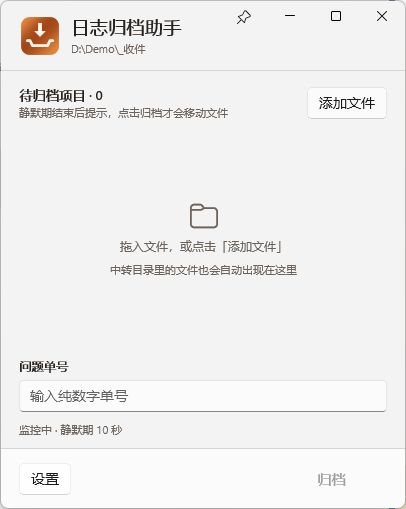
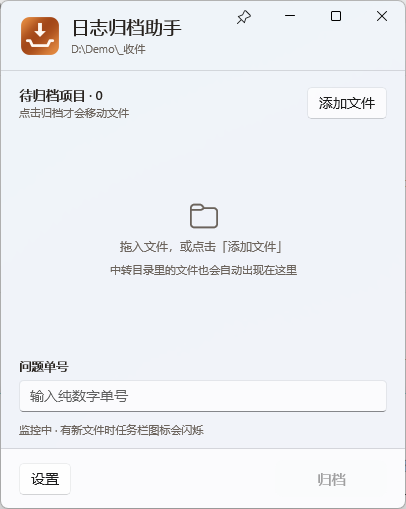
docs: describe the 0.04 pin fix and taskbar-only reminders
Update the changelog, spec, readme and release checklist to match: no quiet period, no pause action, five tray items. Retake the three screenshots on 0.04 so the removed field no longer appears.

Changed region(s): [[0.0296, 0.2063, 0.5616, 0.2358], [0.1478, 0.8251, 0.5025, 0.8546], [0.9754, 0.9725, 1.0, 1.0]]

diff --git a/README.md b/README.md
@@ -1,12 +1,12 @@
 # 日志归档助手（log-organizer）
 
-常驻 Windows 托盘的轻量工具：把下载、截图、日志等文件放进**中转目录**，或直接拖入归档窗口；文件稳定后工具会提示待归档项目。输入**纯 ASCII 数字问题单号**并明确点击“归档”后，才会移动到目标目录下的单号文件夹中。
+常驻 Windows 托盘的轻量工具：把下载、截图、日志等文件放进**中转目录**，或直接拖入归档窗口；文件一落进中转目录就出现在待归档列表，任务栏图标会闪一下提醒你。输入**纯 ASCII 数字问题单号**并明确点击“归档”后，才会移动到目标目录下的单号文件夹中。
 
 **保存到中转目录 → 输入单号 → 确认归档**
 
 | 项目 | 值 |
 | --- | --- |
-| 当前版本 | 0.03 |
+| 当前版本 | 0.04 |
 | 许可证 | GNU GPL v3（`GPL-3.0-only`） |
 | 系统要求 | Windows 10 版本 1809（17763）或更高、Windows 11；x64 或 arm64 |
 | 运行时依赖 | 不需要安装 .NET；需要 Microsoft Visual C++ 2015-2022 运行库 |
@@ -22,7 +22,7 @@
 2. 解压到普通可写目录，例如 `D:\Apps\LogOrganizer`，双击 `LogOrganizer.exe`。
 3. 首次启动会创建中转目录 `D:\Downloads\_收件`（可在设置中修改）。
 4. 在设置里选择**目标目录**——归档文件夹会创建在它下面。
-5. 把文件存到中转目录，等待提示，输入单号，点击“归档”。
+5. 把文件存到中转目录，看到任务栏图标闪烁后，输入单号，点击“归档”。
 
 > 个别受企业策略管控的目录不允许程序写 `%APPDATA%`，此时配置保存会失败。把 exe 放到普通目录（如 `D:\Apps\LogOrganizer`）即可，不需要管理员权限。
 
@@ -30,12 +30,12 @@
 
 ## 二、功能
 
-- **中转目录监控**：文件停止变化并经过静默期（默认 10 秒）后，把顶层文件 / 文件夹作为一批待归档项目；`.crdownload`、`.part`、`.tmp` 等未完成下载会被忽略。
+- **中转目录监控**：顶层文件 / 文件夹一出现就进入待归档列表，不等待、不弹窗、不抢焦点；任务栏按钮闪烁一次作为提醒（最小化时不会自动还原）。`.crdownload`、`.part`、`.tmp` 等未完成下载不会进入列表。
 - **手动添加与拖放**：归档窗口可添加文件、文件夹，或直接拖入；添加和移除只改列表，不动磁盘上的源项目。
 - **单号归档**：单号只接受非空纯数字；目标单号文件夹已存在时合并。
 - **冲突处理**：遇到同名文件必须逐项选择覆盖、重命名或跳过，默认按钮是“跳过”，不会静默覆盖。
 - **置顶模式**：归档窗口常驻最前，新项目直接进入列表；置顶不是自动归档，移动仍需要明确点击“归档”。
-- **托盘菜单**：右键托盘图标弹出菜单——显示 / 隐藏窗口、设置、打开中转目录、打开目标目录（未设置目标目录时置灰）、暂停 / 继续监控、退出。
+- **托盘菜单**：右键托盘图标弹出菜单——显示 / 隐藏窗口、设置、打开中转目录、打开目标目录（未设置目标目录时置灰）、退出。
 - **开机自启**（默认关闭）与**全局快捷键唤醒**（默认 `Ctrl+Shift+L`，默认关闭）：设置页可捕获改键，按下时把归档窗口提到最前并聚焦单号框；组合被占用时会提示。
 - **单实例**：重复启动只会提示“已经在运行”，避免两个实例同时移动同一批文件。
 
@@ -53,7 +53,7 @@
 
 ## 四、使用流程
 
-1. 文件进入中转目录后，工具在静默期结束后把项目加入“待归档项目”列表，并提示（置顶模式下不弹提示）。
+1. 文件进入中转目录后立刻出现在“待归档项目”列表，任务栏图标闪一下；窗口不会自己升起。
 2. 输入单号，点击“归档”。
 3. 目标目录下生成同名文件夹；已存在则合并。出现同名冲突时逐项确认。
 4. 全部成功后源项目才从中转目录消失；任何一项失败都会保留源项目并显示原因。
@@ -90,7 +90,7 @@
 
 - 配置：`%APPDATA%\log-organizer\config.json`。旧目录 `%APPDATA%\ticket-file-organizer` 会被自动迁移一次，旧的开机自启项也会清理。
 - 崩溃日志：`%LOCALAPPDATA%\LogOrganizer\crash.log`。
-- 版本号规则：每处发布 +0.01（`0.01 → 0.02 → 0.03`），不做跨版本跳跃；重大缺陷或重大功能才允许改变 `0.0x` 之前的数字，并在 `CHANGELOG.md` 说明理由。
+- 版本号规则：每处发布 +0.01（`0.01 → 0.02 → 0.03 → 0.04`），不做跨版本跳跃；重大缺陷或重大功能才允许改变 `0.0x` 之前的数字，并在 `CHANGELOG.md` 说明理由。
 - 版本号只有一个来源：根目录 `Directory.Build.props` 的 `<Version>`。
 
 ## 八、构建
@@ -101,7 +101,7 @@
 # 构建（x64）
 dotnet build LogOrganizer.sln -c Release -p:Platform=x64
 
-# 运行核心单元测试（73 个用例）
+# 运行核心单元测试（63 个用例）
 dotnet test LogOrganizer.sln -c Release -p:Platform=x64
 # 或者直接跑测试可执行文件（等价，且不依赖测试宿主）
 tests\LogOrganizer.Core.Tests\bin\Release\net10.0\LogOrganizer.Core.Tests.exe
@@ -125,8 +125,7 @@ tests\LogOrganizer.Core.Tests\bin\Release\net10.0\LogOrganizer.Core.Tests.exe
 ```
 src/LogOrganizer.Core/            不依赖 UI 的核心逻辑
   TicketNumber.cs                 单号校验（仅 ASCII 数字）
-  QuietPeriod.cs                  静默期状态
-  InboxWatcher.cs                 中转目录监控与批次
+  InboxWatcher.cs                 中转目录监控：顶层项目即时进入待归档列表
   ArchiveService.cs               安全移动 / 合并 / 冲突处理
   ArchiveConflict.cs              冲突决策与结果模型
   PathSafety.cs                   路径与重解析点防护
@@ -163,7 +162,7 @@ docs/screenshots/                 README 使用的窗口截图
 - **设置窗口高度会按屏幕可用区域截断**：内容放不下时出现滚动条，页脚按钮始终可见。
 - 目标目录只能有一个；切换需在设置中修改。
 - 中转目录必须由你在保存对话框里手动选择一次（Windows 不允许第三方程序添加自定义保存位置）。
-- 浏览器未完成的下载（`.crdownload`、`.part`、`.tmp`）会被忽略，改名完成后才进入批次。
+- 浏览器未完成的下载（`.crdownload`、`.part`、`.tmp`）不会进入列表，改名完成后才出现。
 - 隐藏窗口不退出应用，需从托盘菜单“退出”。
 - 程序运行中无法覆盖 exe（文件被占用），重新发布前先退出。
 - 从受策略限制的目录运行时可能写不进 `%APPDATA%`（例如某些企业管控的源码目录）；把 exe 放到普通目录（如 `D:\Apps\LogOrganizer\`）即可。

diff --git a/SPEC.md b/SPEC.md
@@ -7,14 +7,14 @@
 ## 已确认需求
 
 - 项目目录：`log-organizer`；技术栈：C#、.NET 10（LTS）、WinUI 3（Windows App SDK 1.8）。显示名称：**日志归档助手**；可执行文件：`LogOrganizer.exe`。
-- 托盘工具保持运行，菜单提供：显示 / 隐藏归档窗口、设置、打开中转目录、打开目标目录、暂停 / 继续监控、退出。
+- 托盘工具保持运行，菜单提供：显示 / 隐藏归档窗口、设置、打开中转目录、打开目标目录、退出。
 - 默认中转目录为 `D:\Downloads\_收件`；设置页允许修改中转根路径与子文件夹名称，首次使用时创建目录。
 - 默认目标目录未设置；用户选择一个已存在的目录后长期生效。目标目录无效或不存在时不可归档并明确提示。
-- 文件系统变化重新开始静默期（默认 10 秒，可设 1–600 秒）。普通模式下静默期结束仅提示有项目待处理；用户输入单号并明确点击归档后才移动源项目。文件和文件夹均可作为顶层待归档项目；未完成下载的后缀（`.crdownload`、`.part`、`.tmp` 等）忽略。
+- 中转目录出现新的顶层项目时立即加入待归档列表，不设静默期、不弹对话框、不抢前台、不自动升起窗口；只在任务栏按钮闪一下作为提醒（2 秒内多次变化只闪一次，最小化时不会自动还原）。用户输入单号并明确点击归档后才移动源项目。文件和文件夹均可作为顶层待归档项目；未完成下载的后缀（`.crdownload`、`.part`、`.tmp` 等）忽略。
 - 归档窗口允许通过文件选择器和拖放添加文件 / 文件夹，并允许逐项移出列表；仅添加或移除列表项不改动磁盘上的源项目。
 - 单号必须为非空纯 ASCII 数字（`0`–`9`）。单号目录已存在时合并；目标发生同名冲突时必须由用户选择覆盖、重命名或跳过，默认按钮为跳过。
-- 置顶模式保持归档窗口常驻可见；中转目录新增项目直接加入待归档列表，不显示静默期提示窗口。置顶不是自动归档：移动仍只在用户明确点击归档后发生。取消置顶后恢复普通模式的静默期提示。
-- 设置页可修改静默秒数、开机自启（默认关闭）、全局快捷键唤醒（默认组合 `Ctrl+Shift+L`，默认关闭；设置页可捕获改键，被其它程序占用时提示）、窗口背景（Mica / 亚克力 / 纯色，不可用时自动退回纯色）、置顶模式透明度（40%–100%）。配置保存至 `%APPDATA%\log-organizer\config.json`；旧目录 `%APPDATA%\ticket-file-organizer` 自动迁移一次。
+- 置顶模式保持归档窗口常驻可见，并以 92% 不透明度显示；中转目录新增项目直接加入待归档列表。置顶不是自动归档：移动仍只在用户明确点击归档后发生。置顶与监控完全独立，不改变文件是否被发现或何时进入列表。
+- 设置页可修改开机自启（默认关闭）、全局快捷键唤醒（默认组合 `Ctrl+Shift+L`，默认关闭；设置页可捕获改键，被其它程序占用时提示）、窗口背景（Mica / 亚克力 / 纯色，不可用时自动退回纯色）、置顶模式透明度（40%–100%）。配置保存至 `%APPDATA%\log-organizer\config.json`；旧目录 `%APPDATA%\ticket-file-organizer` 自动迁移一次。
 - 发布两个架构的自包含单文件：`win-x64` 与 `win-arm64`，随包提供微软官方 VC++ 运行库安装包；`build.ps1` 生成单架构产物，`tools/make-release.ps1` 生成带校验清单的发布附件。Windows 10 1809+ 与 Windows 11 为支持范围。
 
 ## 安全与失败行为
@@ -33,7 +33,7 @@
 - 运行时基线：`net10.0-windows10.0.17763.0`，Windows App SDK 固定在 1.8 线（2.x 对 Windows 10 的支持尚未确认，不升级）。
 - 界面只有一份实现：`src/LogOrganizer.WinUI`（WinUI 3）。原 WinForms 窗口与控件已删除，不再保留编译排除项或历史目录。
 - 背景材质由 `BackdropFactory` 统一解析：Windows 11 使用 Mica（Base），可选亚克力；Windows 10、高对比度或材质不可用时退回纯色表面。
-- 置顶按钮位于自绘标题栏内，是最小化按钮左侧紧邻的第 4 个按钮（46×32 DIP、零间隙），按 `AppWindow.TitleBar.RightInset` 动态让出系统最小化 / 最大化 / 关闭按钮区域，悬停与按下底色和系统按钮一致。
+- 置顶按钮位于自绘标题栏内，是最小化按钮左侧紧邻的第 4 个按钮（46×32 DIP、零间隙），按 `AppWindow.TitleBar.RightInset` 动态让出系统最小化 / 最大化 / 关闭按钮区域，悬停与按下底色和系统按钮一致。按钮落在非客户区，WinUI 的自动穿透区域会在窗口与布局变化时丢失，导致点击退化成拖动标题栏；因此每次布局、尺寸、主题与置顶状态变化后都用 `InputNonClientPointerSource.SetRegionRects(Passthrough, …)` 重新声明按钮矩形。按钮只有统一的 `Click` 入口，目标状态取自程序本身而不是 Toggle 的勾选值。
 - 设置窗口与归档窗口共用标题栏结构（图标 + 标题 + 副标题）、材质、卡片样式与页脚布局；设置页页脚显示版本号。窗口尺寸按窗口 DPI 换算（`GetDpiForWindow`），并在高度超过显示器可用区域时截断为滚动内容，保证页脚按钮始终可达。两个窗口都可最大化、自由缩放，最小尺寸为归档窗口 420×460 DIP、设置窗口 460×560 DIP；最大化后内容拉伸到 860 DIP 的阅读宽度并居中；保存按钮旁的校验提示固定在页脚，不会被滚动内容遮住。
 - 主操作按钮（`AccentButtonStyle`：归档、保存设置）使用自绘模板常驻强调色：悬停不改变外观，按下叠一层 14% 黑色遮罩加深，禁用态引用系统的 `ButtonBackgroundDisabled` / `ButtonForegroundDisabled` 保持中性灰；文字色走 `AppOnAccentBrush`（浅色主题白字、深色主题深棕字）。不依赖系统强调色，也不会随系统主题或强调色变化。
 - 托盘菜单不再依赖 `H.NotifyIcon` 的 XAML 菜单：`TrayMenu` 自建 `WS_POPUP` 宿主窗口 + Win32 `TrackPopupMenuEx`，右键后按返回值分发命令。选中项立即执行；未设置目标目录时“打开目标目录”置灰。

diff --git a/docs/release-notes/0.04.md b/docs/release-notes/0.04.md
@@ -1,0 +1,50 @@
+# 日志归档助手 0.04
+
+常驻 Windows 托盘的归档工具：下载、截图、日志等文件放进**中转目录**，或直接拖入归档窗口；输入**纯 ASCII 数字问题单号**并点击“归档”后，才会移动到目标目录下的单号文件夹中。
+
+本次只修行为细节，归档流程与目录结构不变。
+
+## 下载
+
+| 屏幕架构 | 文件 | 说明 |
+| --- | --- | --- |
+| 桌面 Intel / AMD 机器 | `LogOrganizer-0.04-win-x64.zip` | x64 已实机验证 |
+| Windows on ARM（少数场景） | `LogOrganizer-0.04-win-arm64.zip` | 由 CI 交叉编译，**尚未在 ARM 设备上实机验证** |
+
+也可以直接下载裸 exe：`LogOrganizer-0.04-win-x64.exe` / `-win-arm64.exe`。压缩包里还有微软官方 VC++ 运行库安装包与 `使用说明.txt`。
+
+## 0.04 变更
+
+- **修好图钉取消不了**：置顶按钮在扩展标题栏的非客户区里，之前依赖 WinUI 自动声明的点击穿透区域。这个区域在窗口移动、缩放、切换主题后会丢失，此时点图钉不会切换状态，而是被当成拖动标题栏（实测窗口会跟着移走 280 px）。现在每次布局变化后都自己重新声明按钮矩形，连续点击也稳定；按钮也改成只从一个入口写状态，不会再出现图标与真实置顶状态不一致。
+- **新文件只闪任务栏**：文件一进中转目录就出现在待归档列表，任务栏图标闪一下提醒你；不再弹“项目已准备归档”对话框、不抢前台、窗口不会自己升起来。2 秒内的连续变化只闪一次；最小化时不会自动还原。
+- **删除静默检测**：不再有“文件停止变化后等待 N 秒”，设置页里对应的“静默等待秒数”一并移除；归档始终只由你点击“归档”触发。
+- **删除暂停监控**：托盘菜单只剩显示 / 隐藏、设置、打开中转目录、打开目标目录、退出。置顶与监控彻底分开，置顶只负责吸顶和 92% 透明度。
+- **更准确的失败提示**：文件还在被复制占用时点归档，提示“文件仍在使用中，请等复制完成后再点击归档。”
+
+## 安装与使用
+
+1. 解压压缩包到普通可写目录，例如 `D:\Apps\LogOrganizer`，双击 `LogOrganizer.exe`。
+2. 首次启动会创建中转目录 `D:\Downloads\_收件`（可在设置里修改）。
+3. 在设置里选择**目标目录**——归档文件夹会创建在它下面。
+4. 文件进入中转目录后会立刻出现在列表里，任务栏图标闪一下；输入单号，点击“归档”才移动文件。
+
+不需要安装 .NET 或 Windows App Runtime。已打包的版本需要 **Microsoft Visual C++ 2015-2022 运行库**，缺失时会提示；压缩包内附有官方安装包。程序未签名，SmartScreen 首次运行可能提示“Windows 已保护你的电脑”，选择“更多信息 → 仍要运行”即可。
+
+## 已知限制
+
+- **ARM64 尚未实机验证**：CI 能编译并产出，但 runner 无法启动 ARM 二进制。ARM 设备上如遇问题，可改装 x64 包（Windows on ARM 支持 x64 模拟）。
+- 跨卷移动只校验文件数量与大小，不做逐字节哈希。
+- 批次逐项执行，不承诺文件系统事务原子性；中途失败时已完成项目留在目标，其余源项目保留并逐项说明。
+- 运行企业策略管控目录时可能写不进 `%APPDATA%`，此时配置保存会失败；把 exe 放到普通目录即可，不需要管理员权限。
+
+## 校验
+
+`SHA256SUMS.txt` 与附件一一对应：
+
+```
+certutil -hashfile LogOrganizer-0.04-win-x64.zip SHA256
+```
+
+## 许可
+
+GNU GPL v3（`GPL-3.0-only`）。源码、构建脚本与设计记录在仓库；问题与建议请开 Issues。

diff --git a/docs/RELEASE.md b/docs/RELEASE.md
@@ -6,7 +6,7 @@
 
 ```powershell
 # 1. 改版本号
-#    Directory.Build.props: <Version>0.03</Version>
+#    Directory.Build.props: <Version>0.04</Version>
 
 # 2. 全量构建 + 测试
 dotnet build LogOrganizer.sln -c Release -p:Platform=x64
@@ -28,7 +28,7 @@ tests\LogOrganizer.Core.Tests\bin\Release\net10.0\LogOrganizer.Core.Tests.exe
 | `LogOrganizer-<版本>-win-arm64.exe` | 同上（ARM64） |
 | `SHA256SUMS.txt` | 上面四项的 SHA-256 |
 
-参数：`-SkipArm64` / `-SkipX64` 只打一个架构，`-SkipRedist` 不下载运行库，`-Version 0.03` 覆盖版本号，`-RedistDir` 指定运行库缓存目录。
+参数：`-SkipArm64` / `-SkipX64` 只打一个架构，`-SkipRedist` 不下载运行库，`-Version 0.04` 覆盖版本号，`-RedistDir` 指定运行库缓存目录。
 
 ## 二、走 CI 打一个版本
 
@@ -39,8 +39,8 @@ tests\LogOrganizer.Core.Tests\bin\Release\net10.0\LogOrganizer.Core.Tests.exe
 3. 用 `GITHUB_TOKEN` 创建或更新对应 Release，附上四个文件与 `SHA256SUMS.txt`。
 
 ```powershell
-git tag v0.03
-git push origin v0.03
+git tag v0.04
+git push origin v0.04
 ```
 
 `build.yml` 在每次 push 到 `main` 与 PR 时跑构建、单元测试和两个架构的发布，产物作为 Actions artifact 保存。
@@ -65,12 +65,14 @@ git push origin v0.03
 
 - [ ] `LICENSE`、`SECURITY.md`、`PRIVACY.md`、`THIRD-PARTY-NOTICES.md` 存在且日期/版本正确。
 - [ ] `CHANGELOG.md` 有本次条目，版本号与 tag 一致。
-- [ ] 单元测试全绿（当前 73 个）。
+- [ ] 单元测试全绿（当前 63 个）。
 - [ ] `dotnet list LogOrganizer.sln package --include-transitive --vulnerable` 无输出告警。
 - [ ] 仓库里没有本机路径、个人邮箱、企业信息（见 `docs/security-audit.md`）。
 - [ ] 两个 zip 解压后都能看到 `LogOrganizer.exe`、`VC_redist.*.exe`、`使用说明.txt`。
 - [ ] `SHA256SUMS.txt` 与附件实际哈希一致（`certutil -hashfile <文件> SHA256`）。
 - [ ] Release 说明写清：x64 已实机验证 / ARM64 待实机验证、需要 VC++ 运行库、未签名会触发 SmartScreen。
 - [ ] 发布说明写在该版本的 `docs/release-notes/<版本>.md`（去掉 `v`），`release.yml` 发现该文件就用它当正文；入库后随 tag 一起发布，别只在网页上手改。
-- [ ] 手工确认：托盘右键六项都能执行（含“打开目标目录”在未设置时置灰）、两个窗口的最大化按钮可用且不能缩到最小尺寸以下、启用快捷键后按组合键能唤醒并聚焦单号框、组合被占用时设置页给出提示。
+- [ ] 手工确认：托盘右键五项都能执行（含“打开目标目录”在未设置时置灰）、两个窗口的最大化按钮可用且不能缩到最小尺寸以下、启用快捷键后按组合键能唤醒并聚焦单号框、组合被占用时设置页给出提示。
 - [ ] 手工确认：主操作按钮（“归档”“保存设置”）鼠标悬停时外观不变、按住时加深、禁用时中性灰；深色主题下文字为深棕。
+- [ ] 手工确认：图钉连点 10 次，每次都能切换置顶状态，窗口不会跟着鼠标位移。
+- [ ] 手工确认：新文件进入中转目录后立刻出现在列表、任务栏闪一下、窗口不自己升起；`.crdownload` 这类下载中的文件不进列表。

diff --git a/CHANGELOG.md b/CHANGELOG.md
@@ -1,6 +1,13 @@
 # 更新日志
 
-版本号规则：每次变更 +0.01（`0.01 → 0.02 → 0.03`），不跳号。重大缺陷或重大功能变更才允许改动 `0.0x` 之外的部分，并在本文件说明理由。
+版本号规则：每次变更 +0.01（`0.01 → 0.02 → 0.03 → 0.04`），不跳号。重大缺陷或重大功能变更才允许改动 `0.0x` 之外的部分，并在本文件说明理由。
+
+## 0.04 — 2026-11-25
+
+- 修复图钉置顶后无法取消：图钉落在扩展标题栏的非客户区，WinUI 自动声明的穿透区域会在窗口与布局变化后丢失，点击被当成拖动标题栏（实测一次失败会让窗口位移 280 px）。现在每次布局、尺寸、主题和置顶状态变化后都显式重设穿透矩形，图钉在连续点击下保持稳定；按钮改为单一 `Click` 入口，目标状态取自程序本身，不再依赖 Toggle 的勾选值。
+- 新文件改用“闪任务栏”提醒：中转目录一出现新项目就进入列表，不再弹对话框、不抢前台、不自动升起窗口；2 秒内的连续变化只闪一次，窗口被隐藏时先显示但不激活，最小化时不会自动还原。
+- 彻底删除静默检测与静默等待（含原“静默等待秒数”设置项），删除“暂停 / 继续监控”功能；图钉置顶与监控彻底解耦，置顶只影响吸顶与 92% 透明度，不再改变文件何时被发现。
+- 归档失败若因文件仍被占用，提示改为“文件仍在使用中，请等复制完成后再点击归档。”
 
 ## 0.03 — 2026-11-25
 
